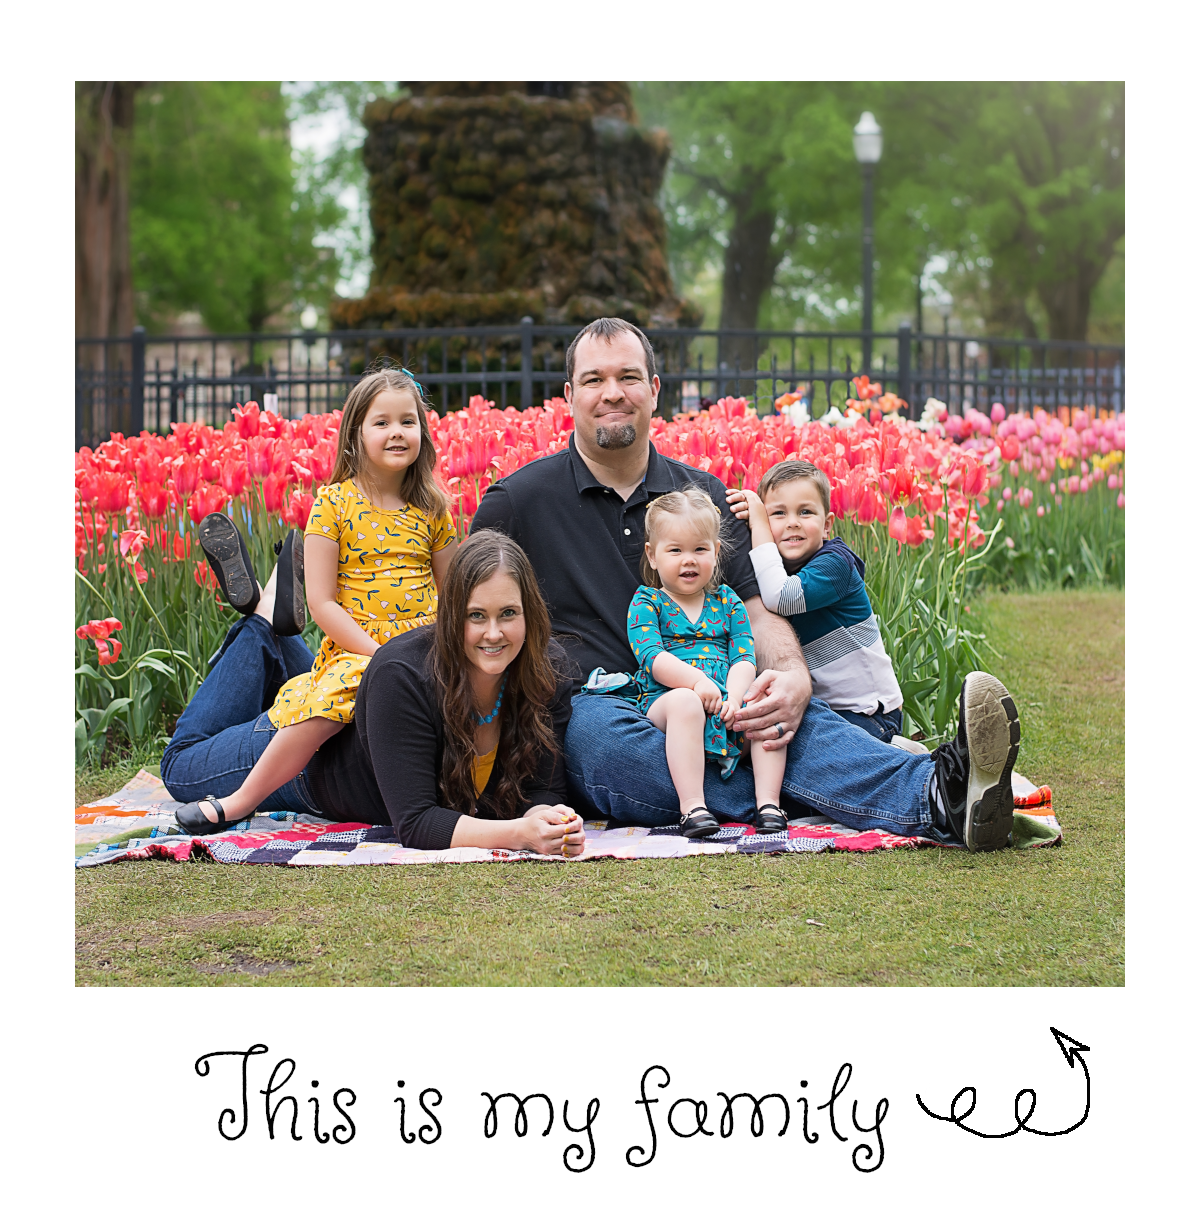
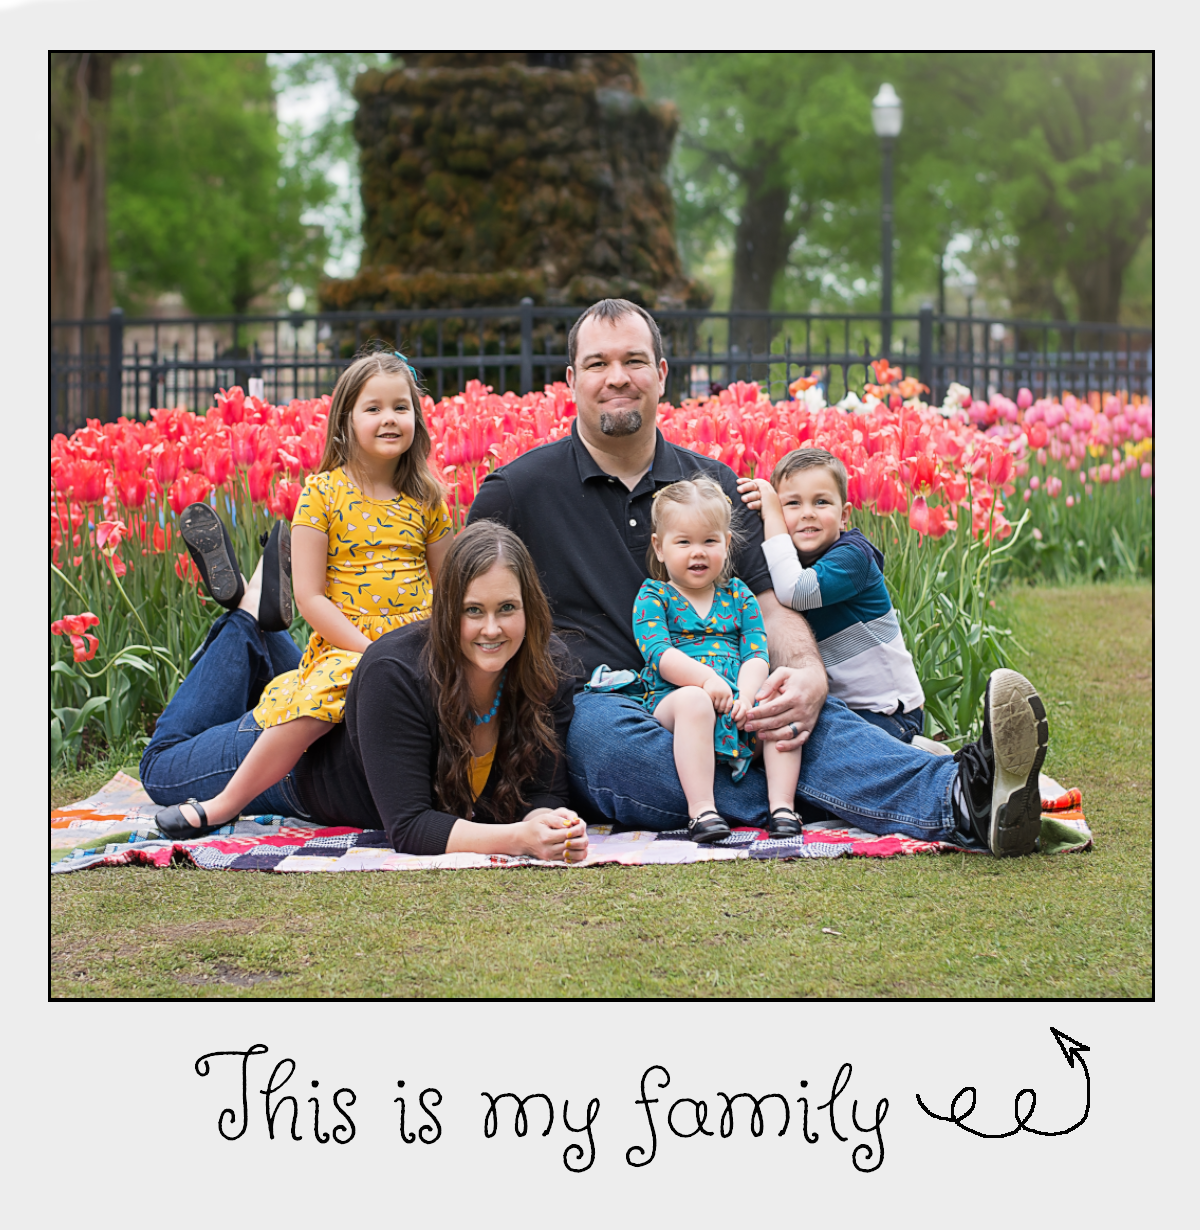
break at about page

diff --git a/src/routes/about.svelte b/src/routes/about.svelte
@@ -1,4 +1,7 @@
 <style>
+  h1 {
+    letter-spacing: 0.2em;
+  }
   div {
     margin: 0 auto;
     width: 75%;
@@ -15,7 +18,8 @@
   }
 
   img {
-    width: 100%;
+    width: 85%;
+    transform: rotate(-15deg);
   }
 
   @media only screen and (max-width: 600px) {
@@ -27,10 +31,11 @@
     }
     img {
       width: 75%;
+      transform: none;
     }
   }
 
-  @media only screen and (min-width: 600px) and (max-width: 1000px) {
+  @media only screen and (min-width: 600px) and (max-width: 1400px) {
     div {
       grid-template-columns: 1fr;
       justify-items: center;
@@ -39,6 +44,20 @@
     }
     img {
       width: 50%;
+      transform: none;
+    }
+  }
+
+  @media only screen and (min-width: 1001px) and (max-width: 1400px) {
+    div {
+      grid-template-columns: 1fr;
+      justify-items: center;
+      width: 100%;
+      text-align: center;
+    }
+    img {
+      width: 35%;
+      transform: none;
     }
   }
 </style>
@@ -47,17 +66,83 @@
   <title>About</title>
 </svelte:head>
 
-<h1>about</h1>
+<h1>About b.Designed</h1>
 
 <div>
   <img src="family.png" alt="my family" />
   <p>
-    I am a mom of 3 wonderful children and I have still managed to find the time
-    to teach myself to code. I love developing web sites that are beautiful,
-    fluid, and responsive. I thrive on mobile-first development with an
-    extensive knowledge of CSS and React with Gatsby, Svelte with Sapper, SEO,
-    UX/UI design, and logo design. I love learning about all the cool new stuff
-    that comes out in the tech world daily. I also 💓 coffee and beer, well
-    because mom life!
+    I am a mom of 3 wonderful children and we live in the beautiful city of
+    Holland, Michigan. I love developing web sites that are beautiful, that are
+    also fluid, responsive, and easy to use. I thrive on mobile-first
+    development with an extensive knowledge of CSS and React with Gatsby, Svelte
+    with Sapper, SEO, UX/UI design, and logo design. I love learning about all
+    the cool new stuff that comes out in the tech world daily. I also 💖 coffee
+    and beer 🍻, well because mom life!
   </p>
 </div>
+<!-- <div className="right-about">
+          <h1>Skills</h1>
+          <div className="skill-div">
+            <div>
+              <img src={WebDev} alt="web dev" className="skills dev" />
+              <p>
+                Web <br />
+                Developer
+              </p>
+            </div>
+            <div>
+              <img
+                src={Graphic}
+                alt="graphic designer"
+                className="skills graphic"
+              />
+              <p>
+                Graphic
+                <br /> Designer
+              </p>
+            </div>
+            <div>
+              <img
+                src={Marketing}
+                alt="marketer"
+                className="skills marketing"
+              />
+              <p>
+                Digital
+                <br />
+                Marketer
+              </p>
+            </div>
+          </div>
+        </div>
+
+        <div className="bottom-about">
+          <div>
+            <p>FAST</p>
+            <img src={Fast} alt="fast" className="icons fast card-front" />
+          </div>
+          <div>
+            <p>RESPONSIVE</p>
+            <img
+              src={Responsive}
+              alt="responsive"
+              className="icons responsive card-front"
+            />
+          </div>
+          <div>
+            <p>INTUITIVE</p>
+            <img
+              src={Intuitive}
+              alt="intuitive"
+              className="icons intuitive card-front"
+            />
+          </div>
+          <div>
+            <p>DYNAMIC</p>
+            <img
+              src={Dynamic}
+              alt="dynamic"
+              className="icons dynamic card-front"
+            />
+          </div>
+        </div> -->

diff --git a/src/routes/index.svelte b/src/routes/index.svelte
@@ -47,12 +47,16 @@
   }
 
   .hlText {
+    border-radius: 0.2em;
     font-style: italic;
     margin: 0 0.5em;
+    color: rgb(226, 226, 226);
     transition: all 0.5s linear;
+    background-clip: text;
     background-color: rgba(0, 255, 255, 0.7);
-    padding: 0 0.5em;
-    text-shadow: 2px 2px 2px rgba(0, 0, 0, 0.5), 0px 0px 1px #111,
+    padding: 0 0.5em 0.1em;
+    text-shadow: 2px 2px 2px rgba(255, 255, 255, 0.5),
+      3px 3px 3px rgba(0, 0, 0, 0.8), 0px 0px 1px #111,
       #333 0.006em 0.006em 0.007em, #9c9c9c 1px 1px 1px;
   }
 
@@ -60,7 +64,8 @@
     margin-left: 10px;
     font-style: italic;
     color: rgba(0, 255, 255, 0.7);
-    text-shadow: 2px 2px 2px rgba(0, 0, 0, 0.5), 0px 0px 1px #111,
+    text-shadow: 2px 2px 2px rgba(255, 255, 255, 0.5),
+      3px 3px 3px rgba(0, 0, 0, 0.5), 0px 0px 1px #111,
       #333 0.006em 0.006em 0.007em, #9c9c9c 1px 1px 1px;
   }
 
@@ -72,8 +77,8 @@
     font-size: 4vh;
     width: 100%;
     height: 6vh;
-    border-radius: 0.4em;
-    background-image: linear-gradient(#111, #333);
+    border-radius: 0.2em;
+    background-image: radial-gradient(#222, #111);
     color: #bbb;
     letter-spacing: 1px;
   }

diff --git a/src/routes/contact.svelte b/src/routes/contact.svelte
@@ -10,13 +10,13 @@
     position: relative;
     width: 40%;
     height: 500px;
-    background: linear-gradient(#333, #000) 0 50%;
+    background: radial-gradient(#222, #111) 0 50%;
     top: 10%;
   }
   .flap {
     transition: 0.5s all linear;
-    fill: rgb(255, 255, 255);
-    animation: open-flap 5s ease-in-out forwards;
+    fill: whitesmoke;
+    animation: open-flap 3s ease-in-out forwards;
     transform-origin: 0 0 0;
   }
 
@@ -41,7 +41,7 @@
     <svg
       id="flap"
       class="flap"
-      height="35%"
+      height="45%"
       width="100%"
       viewBox="0 0 100 100"
       preserveAspectRatio="none">

diff --git a/static/global.css b/static/global.css
@@ -40,7 +40,7 @@ body {
 	margin: 0;
 	font-family: Arial, Helvetica, sans-serif;
 	background-color: #000;
-	color: #eee;
+	color: whitesmoke;
 	height: 100%;
 	background: #000 url(/stars.png) repeat;
 	animation: move-twink-back 300s linear infinite;

diff --git a/src/routes/blog/index.svelte b/src/routes/blog/index.svelte
@@ -65,7 +65,7 @@
   <title>Blog</title>
 </svelte:head>
 
-<h1>blog</h1>
+<h1>Blog Posts</h1>
 
 <div class="grid-logs">
   {#each posts as post}

diff --git a/src/routes/portfolio.svelte b/src/routes/portfolio.svelte
@@ -10,5 +10,5 @@
 </svelte:head>
 
 <div>
-  <h1>portfolio</h1>
+  <h1>Portfolio</h1>
 </div>
